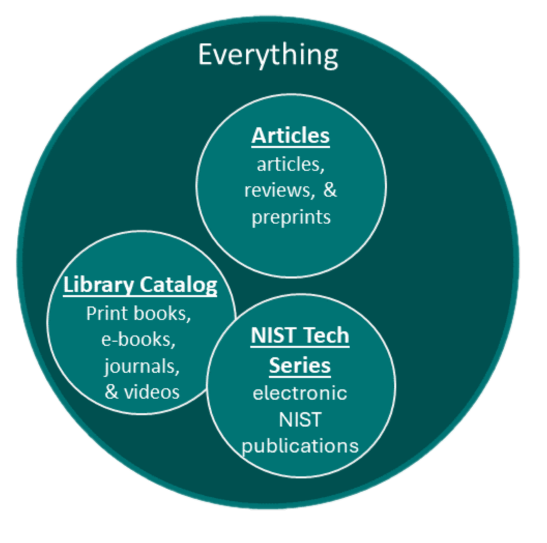
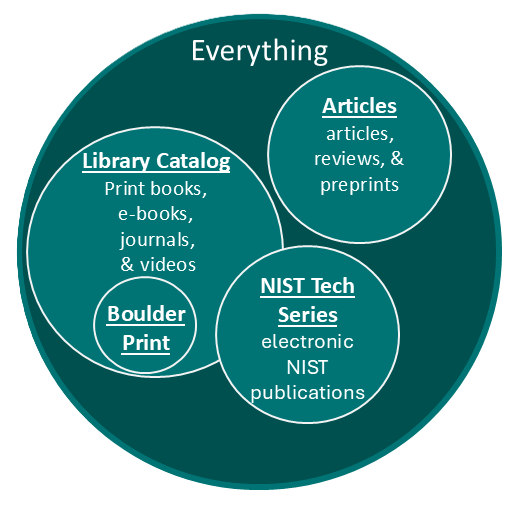
updates what's new with a new what am I searching img

diff --git a/primo-explore/custom/01NIST_INST-01NIST/html/homepage/homepage_en.html b/primo-explore/custom/01NIST_INST-01NIST/html/homepage/homepage_en.html
@@ -37,13 +37,13 @@
         <md-card class="default-card">
             <md-card-content>
                 <span class="md-headline">What's New with Library Search?</span>
-                <p>The July update includes the following key enhancements:</p>
+                <p>The August 2026 update includes the following key enhancements:</p>
                 <ul>
                     <li>
-                        Boulder Labs Interlibrary Loan (ILL) option now available for NIST staff in Boulder.
+                        The Boulder Print Collection is now available in Library Search. Use the "Boulder Print Collection" drop-down to limit your search to physical items in the Boulder Print Collection.
                     </li>
                     <li>
-                        ORCID and Library of Congress URLs now linked in records.
+                        Wildcard searching is now available in Library Search.
                     </li>
                     <li>
                         NIST Technical Series numbers are now in the detailed records and Collection Lobby.
